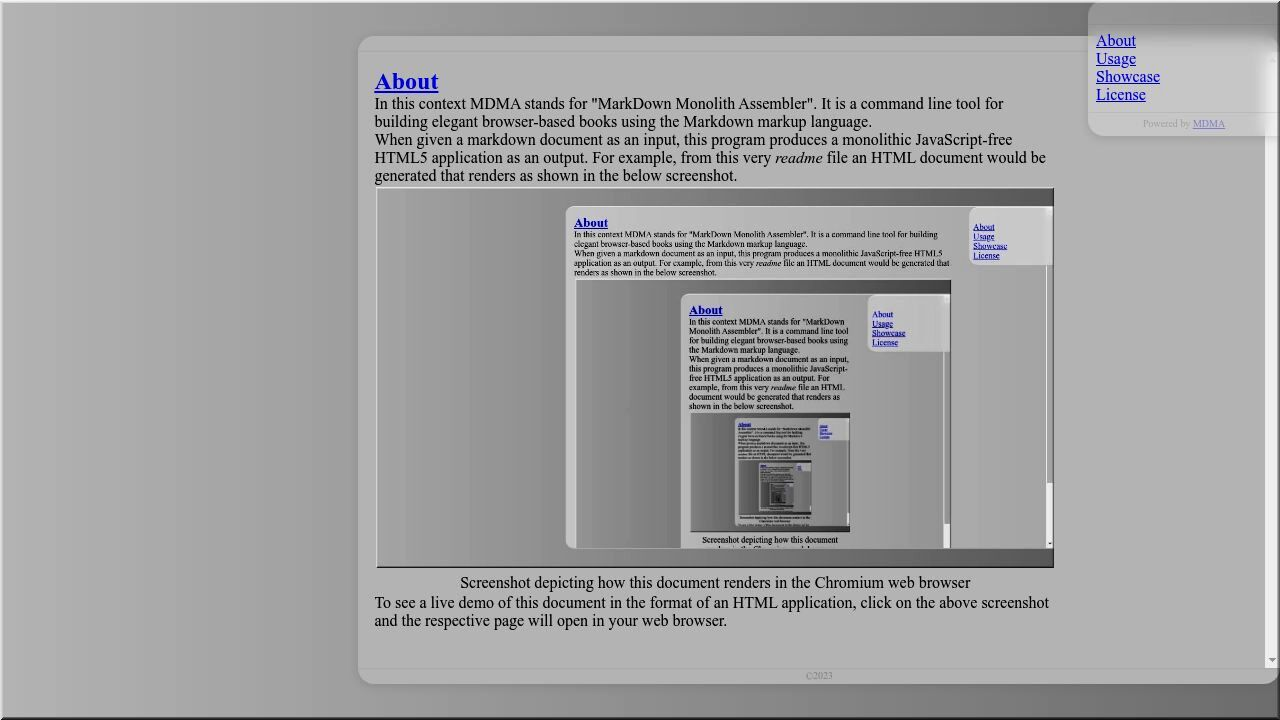
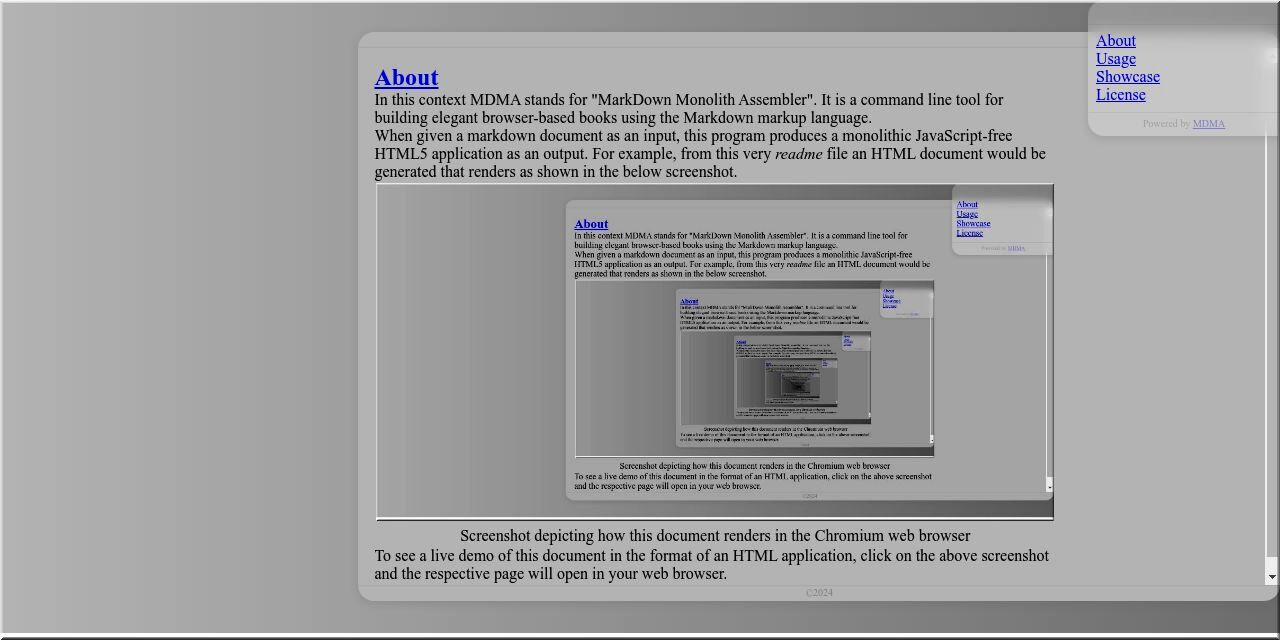
Added new website to the showcase.

diff --git a/framework.html b/framework.html
@@ -1,7 +1,7 @@
 <!DOCTYPE html>
 <html>
   <head>
-    <meta content="MarkDown Monolith Assembler version 1.01" name=
+    <meta content="MarkDown Monolith Assembler version 1.02" name=
     "generator">
     <title>
       Default Framework
@@ -563,6 +563,15 @@ Markdown dialect options:
 
                   <li>
                     <p>
+                      <a href=
+                      "https://developers.google.com/speed/webp"
+                      target="_blank">webp</a> — Library that
+                      handles the WebP image format
+                    </p>
+                  </li>
+
+                  <li>
+                    <p>
                       <a href="https://curl.se/" target=
                       "_blank">curl</a> — Command line tool and
                       library for transferring data with URLs
@@ -600,6 +609,26 @@ Markdown dialect options:
                       <td style="text-align: center;">
                         <a href="https://ErichErstu.net/" target=
                         "_blank">ErichErstu.net</a>
+                      </td>
+                    </tr>
+                  </tbody>
+                </table>
+
+                <table>
+                  <thead>
+                    <tr>
+                      <th style="text-align: center;">
+                        <img alt="Screenshot" loading="lazy" src=
+                        "showcase/stonia.net.ee.jpg">
+                      </th>
+                    </tr>
+                  </thead>
+
+                  <tbody>
+                    <tr>
+                      <td style="text-align: center;">
+                        <a href="https://Stonia.net.ee/" target=
+                        "_blank">Stonia.net.ee</a>
                       </td>
                     </tr>
                   </tbody>

diff --git a/README.md b/README.md
@@ -103,6 +103,9 @@ use are listed.
 | :--------------------------------------------------------------------------: |
 |                  [ErichErstu.net](https://ErichErstu.net/)                   |
 
+|                  ![Screenshot](showcase/stonia.net.ee.jpg)                   |
+| :--------------------------------------------------------------------------: |
+|                   [Stonia.net.ee](https://Stonia.net.ee/)                    |
 
 # License ######################################################################
 
